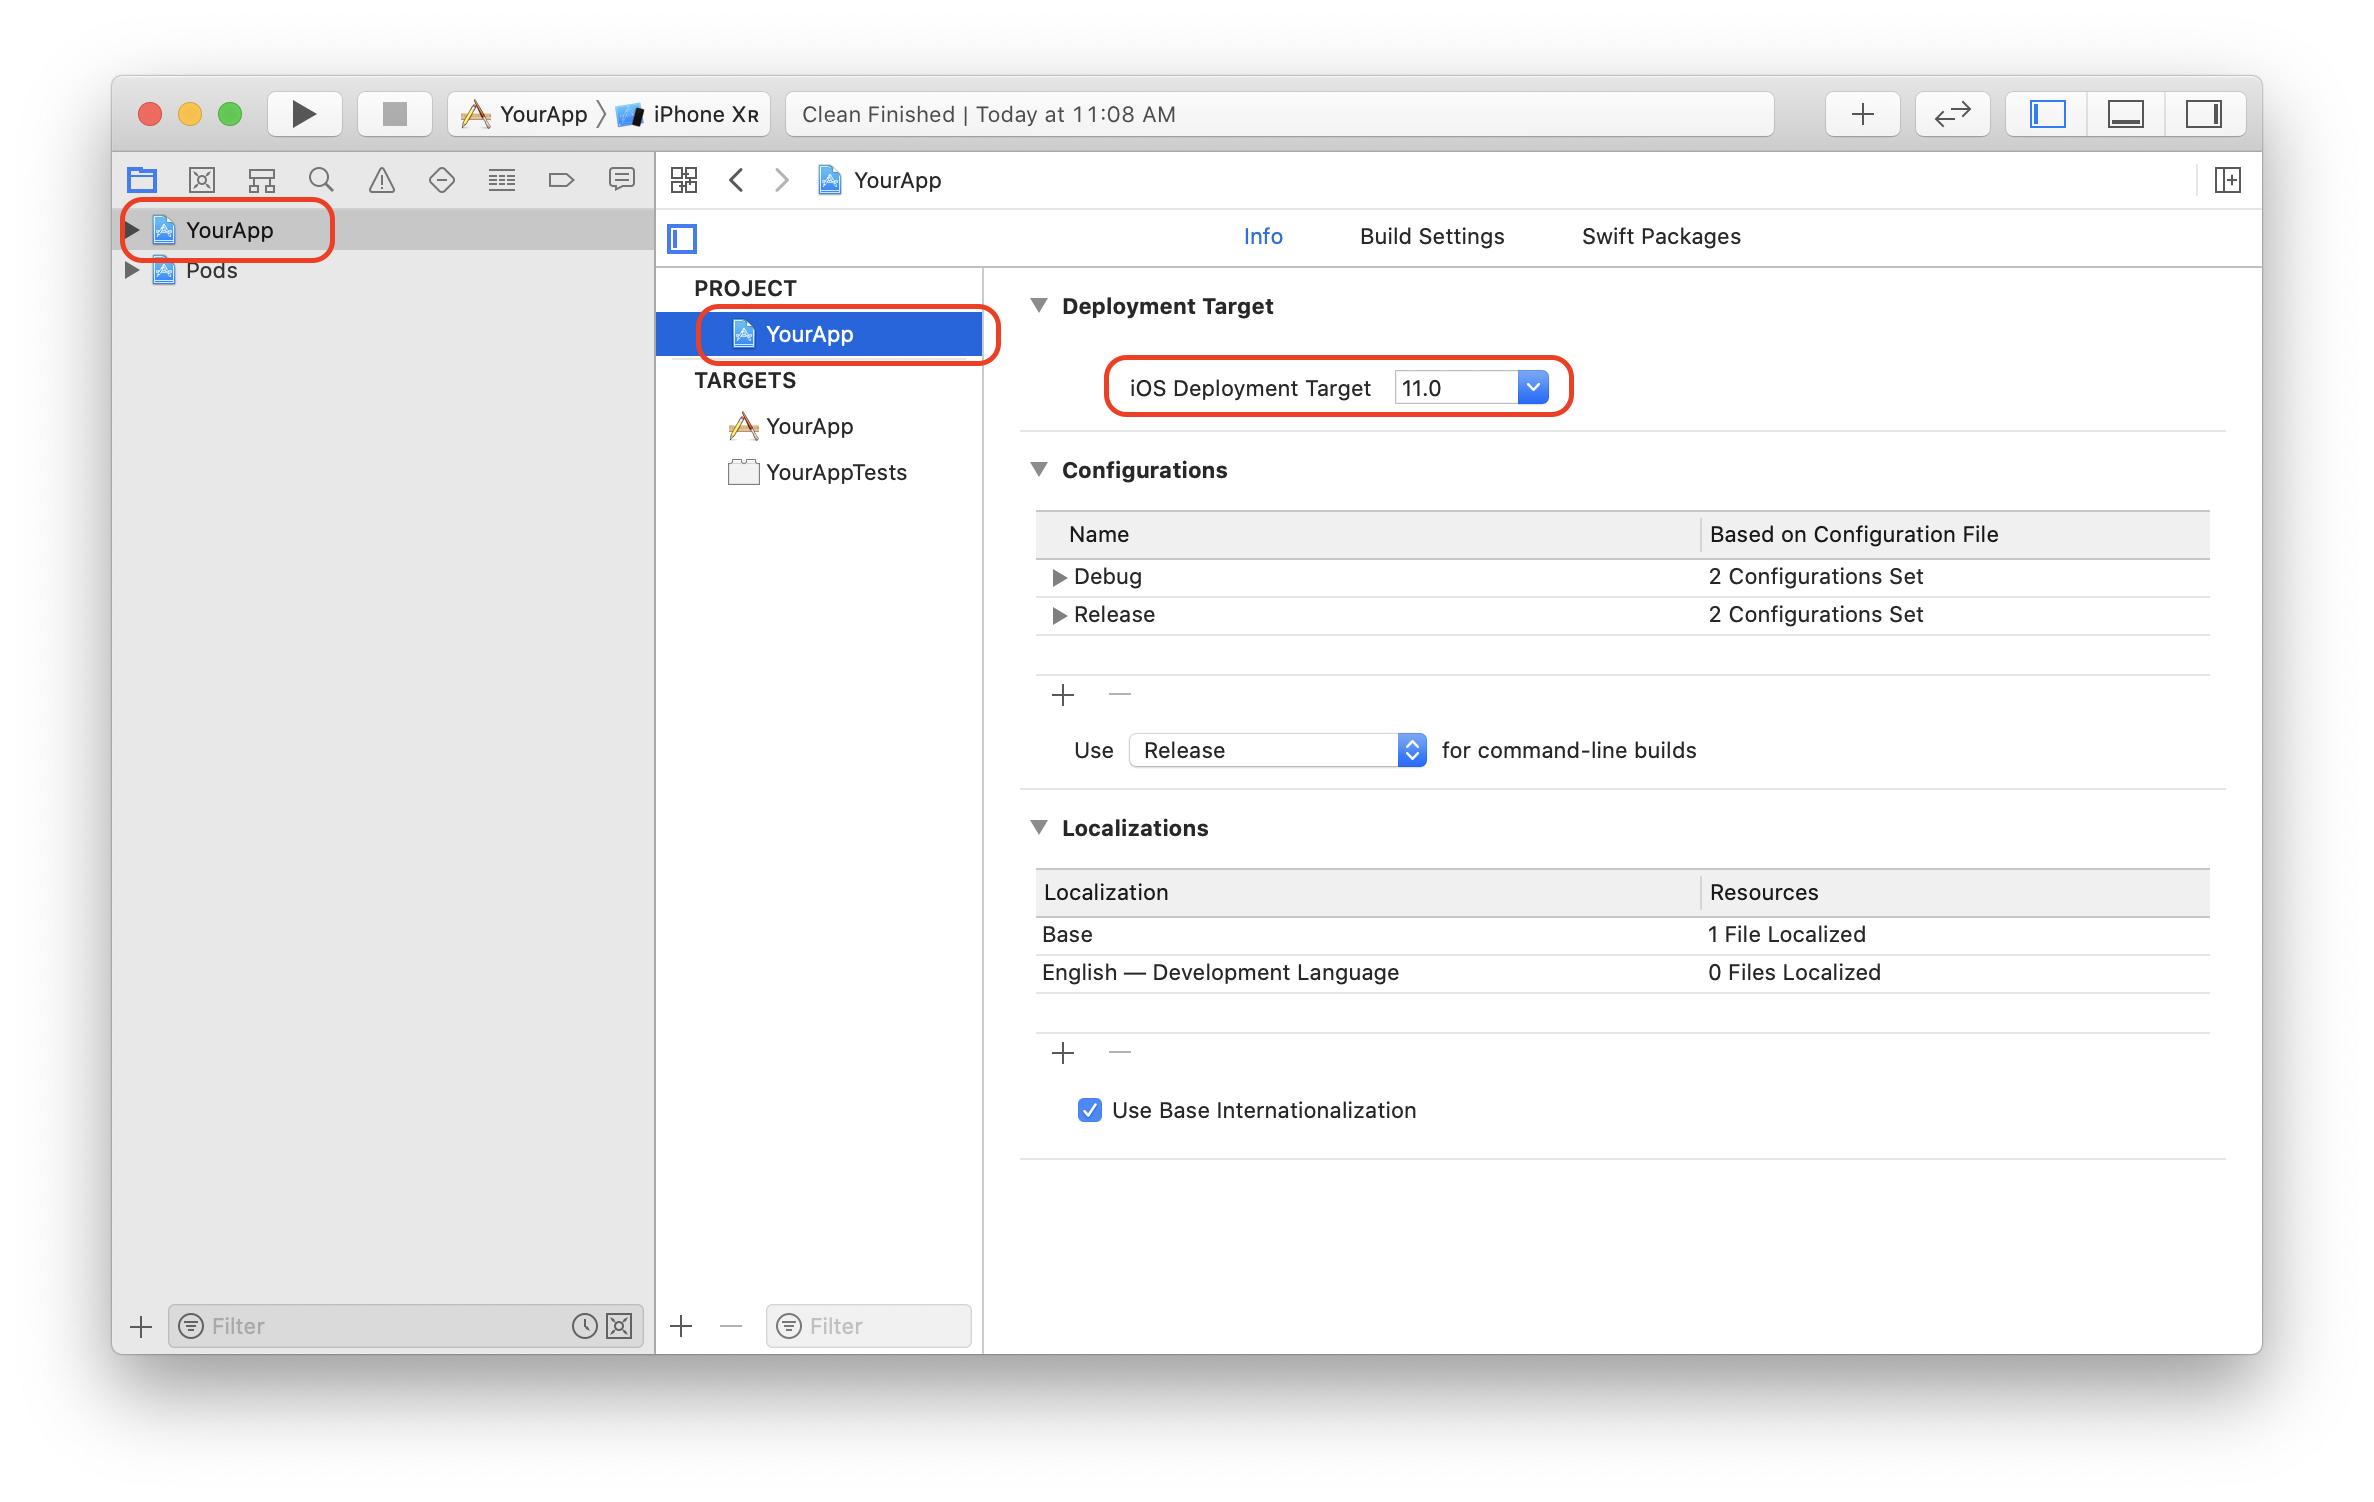
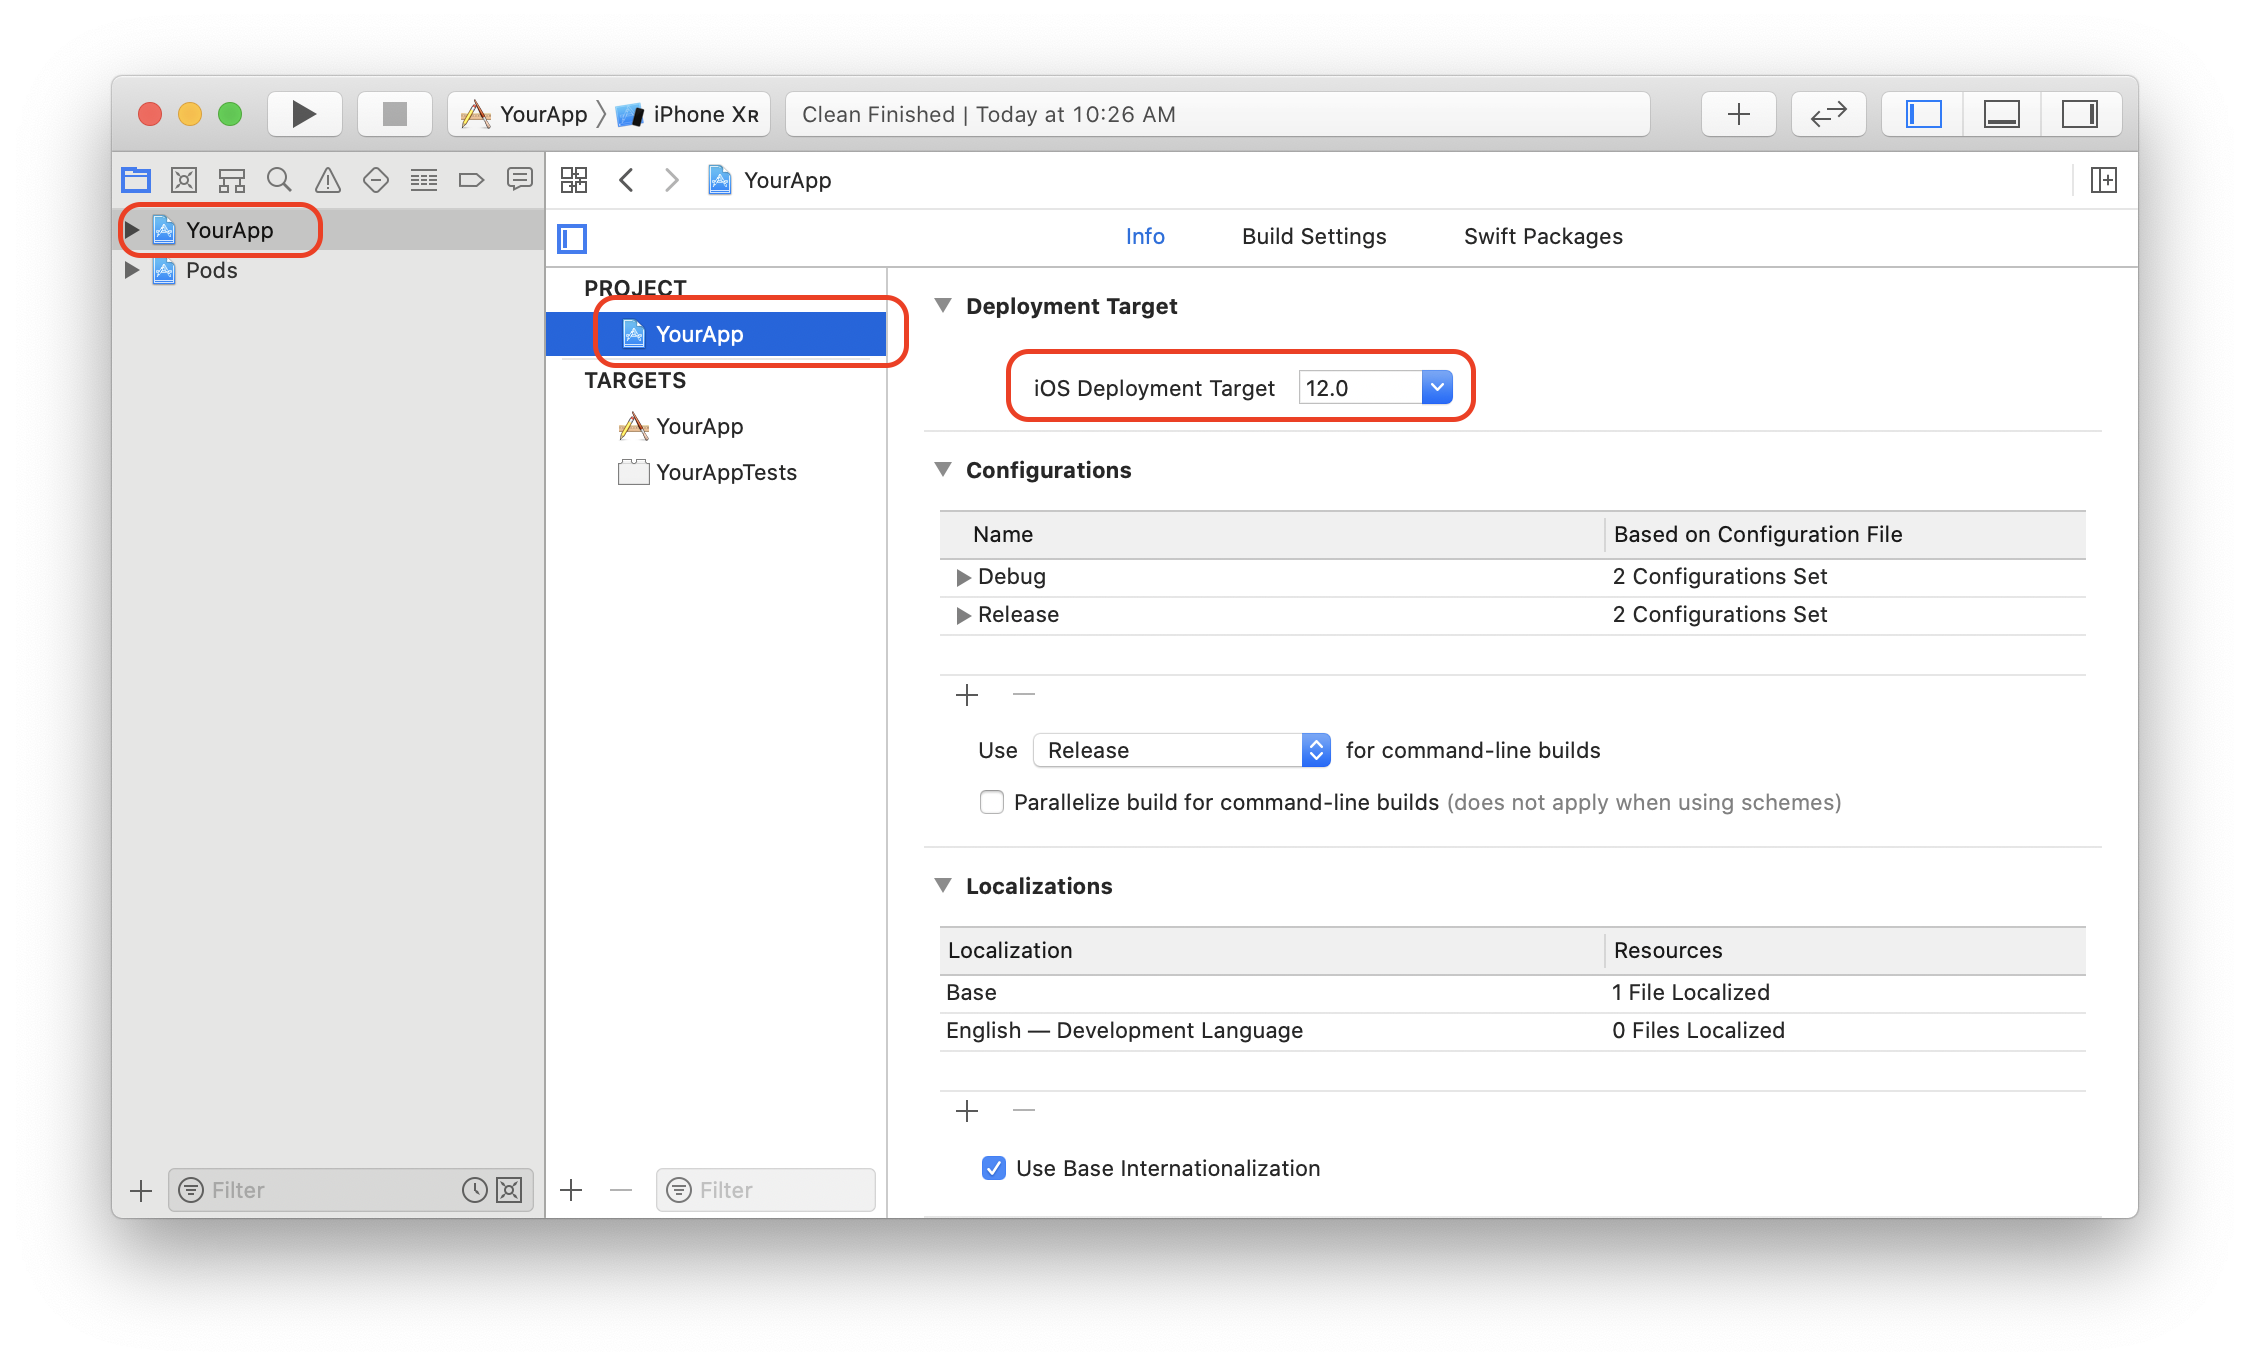
Update for PSPDFKit 9.4 for iOS (#369)

diff --git a/samples/NativeCatalog/README.md b/samples/NativeCatalog/README.md
@@ -24,52 +24,9 @@ maven {
 ### Running this Sample on iOS
 
 1. Clone the repository. `git clone https://github.com/PSPDFKit/react-native.git`.
-2. Install dependencies: run `yarn install` from `samples/NativeCatalog` directory.
-3. Open `samples/NativeCatalog/ios/Podile` in a text editor: `open samples/NativeCatalog/ios/Podfile` and add your CocoaPods URL.
-
-```diff
-platform :ios, '11.0'
-require_relative '../node_modules/@react-native-community/cli-platform-ios/native_modules'
-
-target 'YourApp' do
-  # Pods for YourApp
-  pod 'React', :path => '../node_modules/react-native/'
-  pod 'React-Core', :path => '../node_modules/react-native/React'
-  pod 'React-DevSupport', :path => '../node_modules/react-native/React'
-  pod 'React-fishhook', :path => '../node_modules/react-native/Libraries/fishhook'
-  pod 'React-RCTActionSheet', :path => '../node_modules/react-native/Libraries/ActionSheetIOS'
-  pod 'React-RCTAnimation', :path => '../node_modules/react-native/Libraries/NativeAnimation'
-  pod 'React-RCTBlob', :path => '../node_modules/react-native/Libraries/Blob'
-  pod 'React-RCTImage', :path => '../node_modules/react-native/Libraries/Image'
-  pod 'React-RCTLinking', :path => '../node_modules/react-native/Libraries/LinkingIOS'
-  pod 'React-RCTNetwork', :path => '../node_modules/react-native/Libraries/Network'
-  pod 'React-RCTSettings', :path => '../node_modules/react-native/Libraries/Settings'
-  pod 'React-RCTText', :path => '../node_modules/react-native/Libraries/Text'
-  pod 'React-RCTVibration', :path => '../node_modules/react-native/Libraries/Vibration'
-  pod 'React-RCTWebSocket', :path => '../node_modules/react-native/Libraries/WebSocket'
-
-  pod 'React-cxxreact', :path => '../node_modules/react-native/ReactCommon/cxxreact'
-  pod 'React-jsi', :path => '../node_modules/react-native/ReactCommon/jsi'
-  pod 'React-jsiexecutor', :path => '../node_modules/react-native/ReactCommon/jsiexecutor'
-  pod 'React-jsinspector', :path => '../node_modules/react-native/ReactCommon/jsinspector'
-  pod 'yoga', :path => '../node_modules/react-native/ReactCommon/yoga'
-
-  pod 'DoubleConversion', :podspec => '../node_modules/react-native/third-party-podspecs/DoubleConversion.podspec'
-  pod 'glog', :podspec => '../node_modules/react-native/third-party-podspecs/glog.podspec'
-  pod 'Folly', :podspec => '../node_modules/react-native/third-party-podspecs/Folly.podspec'
-
-  pod 'react-native-pspdfkit', :path => '../node_modules/react-native-pspdfkit'
-- pod 'PSPDFKit', podspec: 'https://customers.pspdfkit.com/cocoapods/YOUR_COCOAPODS_KEY_GOES_HERE/pspdfkit/latest.podspec'
-+ pod 'PSPDFKit', podspec: 'https://customers.pspdfkit.com/cocoapods/USE_YOUR_OWN_COCOAPODS_KEY/pspdfkit/latest.podspec'
-- pod 'Instant', podspec:'https://customers.pspdfkit.com/cocoapods/YOUR_COCOAPODS_KEY_GOES_HERE/instant/latest.podspec'
-+ pod 'Instant', podspec:'https://customers.pspdfkit.com/cocoapods/USE_YOUR_OWN_COCOAPODS_KEY/instant/latest.podspec'
-
-  use_native_modules!
-end
-```
-
-4. `cd ios` then run `pod install`.
-5. The Native Catalog app is now ready to launch. From `samples/NativeCatalog` directory run `react-native run-ios`.
+2. Install dependencies: run `yarn install` from the `samples/NativeCatalog` directory.
+3. `cd ios` then run `pod install`.
+4. The Native Catalog app is now ready to launch. From `samples/NativeCatalog` directory run `react-native run-ios`.
 
 ### Examples
 
@@ -84,3 +41,7 @@ This example shows you how to use the `PdfProcessor` on Android and `PSPDFRender
 #### Watermark on Startup
 
 This example shows you how to use the `PdfProcessor` on Android and `PSPDFRenderDrawBlock` on iOS to put a watermark on the currently displayed document on startup, save it to a new path, and display it. The relevant part is the `performWatermarking` method in the `CustomPdfViewManager` and `-[CustomPDFViewcreateWatermarkAndReloadData:]` on iOS.
+
+#### Instant Example
+
+In this example, we bridged the native iOS Instant example from [PSPDFKit Catalog](https://pspdfkit.com/guides/ios/current/getting-started/example-projects/#pspdfcatalog) over to React Natice.

diff --git a/README.md b/README.md
@@ -37,25 +37,25 @@ To make sure this is fast, please use a work email and have someone from your co
 
 #### Requirements
 
-- Xcode 11.3.1
-- PSPDFKit 9.2.0 for iOS or later
-- react-native >= 0.61.5
-- CocoaPods >= 1.8.4
+- Xcode 11.5
+- PSPDFKit 9.4.0 for iOS or later
+- react-native >= 0.62.2
+- CocoaPods >= 1.9.3
 
 #### Getting Started
 
 Let's create a simple app that integrates PSPDFKit and uses the `react-native-pspdfkit` module.
 
 1. Make sure `react-native-cli` is installed: `yarn global add react-native-cli`
-2. Create the app with `react-native init YourApp`.
+2. Create the app with `react-native init YourApp`
 3. Step into your newly created app folder: `cd YourApp`
 4. Install `react-native-pspdfkit` from GitHub: `yarn add github:PSPDFKit/react-native`
 5. Install all the dependencies for the project: `yarn install`. (Because of a [bug](https://github.com/yarnpkg/yarn/issues/2165) you may need to clean `yarn`'s cache with `yarn cache clean` before.)
-6. Open `ios/Podile` in a text editor: `open ios/Podfile`, update the platform to iOS 11, and add your CocoaPods URL.
+6. Open `ios/Podile` in a text editor: `open ios/Podfile`, update the platform to iOS 12, and add the PSPDFKit podspecs:
 
 ```diff
 - platform :ios, '9.0'
-+ platform :ios, '11.0'
++ platform :ios, '12.0'
 require_relative '../node_modules/@react-native-community/cli-platform-ios/native_modules'
 
 target 'YourApp' do
@@ -85,8 +85,8 @@ target 'YourApp' do
   pod 'glog', :podspec => '../node_modules/react-native/third-party-podspecs/glog.podspec'
   pod 'Folly', :podspec => '../node_modules/react-native/third-party-podspecs/Folly.podspec'
 
-+ pod 'react-native-pspdfkit', :path => '../node_modules/react-native-pspdfkit'
-+ pod 'PSPDFKit', podspec: 'https://customers.pspdfkit.com/cocoapods/YOUR_COCOAPODS_KEY_GOES_HERE/pspdfkit/latest.podspec'
++ pod 'react-native-pspdfkit', :path => '../node_modules/react-native-pspdfkit/react-native-pspdfkit.podspec'
++ pod 'PSPDFKit', podspec: 'https://customers.pspdfkit.com/pspdfkit-ios/latest.podspec'
 
   use_native_modules!
 end
@@ -94,7 +94,7 @@ end
 
 7. `cd ios` then run `pod install`.
 8. Open `YourApp.xcworkspace` in Xcode: `open YourApp.xcworkspace`.
-9. Make sure the deployment target is set to 11.0 or higher:
+9. Make sure the deployment target is set to 12.0 or higher:
    ![Deployment Target](screenshots/deployment-target.png)
 10. Change "View controller-based status bar appearance" to `YES` in `Info.plist`:
     ![View Controller-Based Status Bar Appearance](screenshots/view-controller-based-status-bar-appearance.png)
@@ -275,11 +275,9 @@ Take a look at the [instructions to get started here](/samples/NativeCatalog/REA
 
 #### Running on Mac Catalyst
 
-Using PSPDFKit React Native Wrapper on Mac Catalyst is not fully supported yet. We plan on adding full support for Mac Catalyst as soon as React Native and CocoaPods will full support Mac Catalyst.
+Using PSPDFKit React Native Wrapper on Mac Catalyst does not currently work due to a [Flipper and FlipperKit issue](https://github.com/facebook/react-native/issues/28810).
 
-For more details, see [why we don't fully support Mac Catalyst yet here](ios/Experimental_Mac_Catalyst_Support.md#why-is-mac-catalyst-not-fully-supported-yet).
-
-If you wish to try the experimental Support for Mac Catalyst, please follow [the instructions here.](ios/Experimental_Mac_Catalyst_Support.md)
+If you wish to run your project on Mac Catalyst, please try the [following workaround which removes everything related to Flipper and FlipperKit](https://github.com/facebook/react-native/issues/28810#issuecomment-623357732).
 
 #### Configuration Mapping
 
